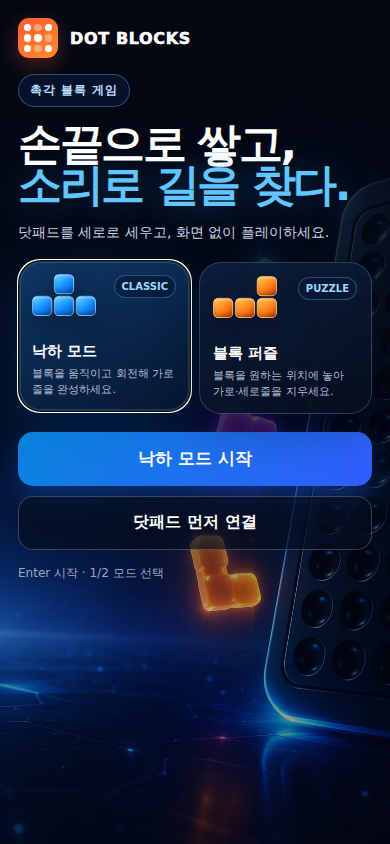
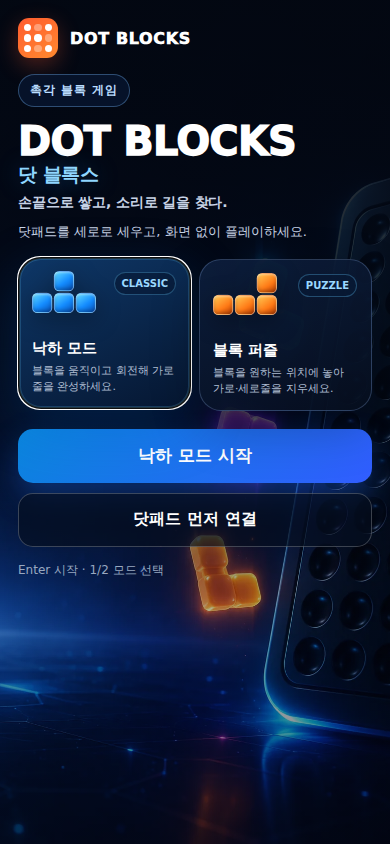
Add DotPad function-key drop, live braille line, fix English-mode crash
- F2+F3 now confirms a placement in both drop and puzzle mode (adjacent
  finger pair, no hand movement off F1-F4), calling the same
  hardDrop()/placePuzzle() as the existing panning-key gestures, which
  stay unchanged
- Hero title restyled as a title-card (DOT BLOCKS + Korean transliteration
  + tagline); the transliteration is aria-hidden so screen readers say
  the name once
- Braille line now reports live position (piece/column/rows-to-landing/
  next in drop mode, row/column/placeable in puzzle mode) instead of
  score, using standard Latin braille letters for I O T S Z J L
- Fix braille digit 0 (was wrongly encoded as dots 1-3-5-6, corrected to
  the standard dots 2-4-5) — every score display has been misreading 0
  since launch
- Split spoken status into quick (22 chars) and detailed (F3+F4/D) tiers;
  added a next/hold-only key (F2+F4/V)
- Fix English mode: applyLang() referenced a nonexistent #subtitle
  element and threw, aborting before most translations ran; also fix
  dropModeBtn/puzzleModeBtn.textContent wiping the mode cards' child
  elements needed by later lookups
- Piece colors unchanged (kept original palette, not the canonical
  Tetris scheme)

Changed region(s): [[0.0308, 0.1232, 0.9538, 0.7085]]

diff --git a/screen-flow-standalone/index.html b/screen-flow-standalone/index.html
@@ -74,7 +74,10 @@
   .intro-main{display:flex;align-items:center;padding:28px clamp(22px,5vw,76px) 64px;min-height:0}
   .intro-copy{width:min(720px,100%)}
   .eyebrow{display:inline-flex;align-items:center;gap:8px;margin:0 0 16px;padding:7px 11px;border:1px solid rgba(123,190,255,.35);border-radius:999px;background:rgba(8,25,53,.65);font-size:12px;font-weight:900;color:#baddff;letter-spacing:.08em}
-  .intro-copy h1{margin:0;font-size:clamp(42px,7vw,82px);line-height:.94;letter-spacing:-.055em;text-wrap:balance}.intro-copy h1 span{display:block;color:#61c6ff;text-shadow:0 0 35px rgba(49,160,255,.36)}
+  .intro-copy h1{margin:0;line-height:.94;letter-spacing:-.055em;text-wrap:balance}
+  .intro-copy h1 .t-en{display:block;font-size:clamp(40px,6.4vw,76px);font-weight:950;letter-spacing:-.02em}
+  .intro-copy h1 .t-ko{display:block;margin-top:8px;font-size:clamp(20px,2.6vw,32px);font-weight:800;letter-spacing:-.02em;color:#8fd6ff;text-shadow:0 0 24px rgba(49,160,255,.34)}
+  .intro-tagline{margin:16px 0 0;font-size:clamp(15px,1.8vw,20px);color:#c8d3e6;font-weight:700;letter-spacing:-.01em}
   .intro-desc{max-width:620px;margin:22px 0 26px;color:#c8d3e6;font-size:clamp(16px,2vw,20px);line-height:1.65}
   .mode-choice{display:grid;grid-template-columns:repeat(2,minmax(0,1fr));gap:12px;max-width:660px}
   .mode-card{position:relative;min-height:154px;border:1px solid rgba(159,197,255,.24);border-radius:22px;padding:18px;background:linear-gradient(155deg,rgba(13,31,62,.9),rgba(6,14,30,.92));color:#fff;text-align:left;cursor:pointer;overflow:hidden;box-shadow:0 18px 50px rgba(0,0,0,.24);transition:border-color .22s var(--ease),background .22s var(--ease),transform .22s var(--ease-out),box-shadow .22s var(--ease)}.mode-card:hover{border-color:rgba(159,197,255,.42)}.mode-card:active{transform:scale(.99)}
@@ -130,7 +133,7 @@
   @media(prefers-reduced-motion:reduce){.fx-pop.show{opacity:1}}
 
   @media(max-width:900px){.game-shell{grid-template-columns:minmax(120px,170px) minmax(220px,350px)}.side.right{display:none}.canvas-wrap{max-height:calc(100vh - 175px)}}
-  @media(max-width:640px){body{overflow:hidden}.intro-top{padding:18px 18px 8px}.intro-kicker{display:none}.intro-main{align-items:flex-start;padding:8px 18px 24px}.intro-screen{background-image:url('./assets/intro-bg-mobile.webp')}.intro-screen::before{background:linear-gradient(180deg,rgba(3,8,18,.93) 0%,rgba(3,8,18,.80) 42%,rgba(3,8,18,.30) 72%,rgba(3,8,18,.55) 100%)}.intro-copy h1{font-size:44px}.intro-desc{font-size:14px;margin:15px 0 18px}.mode-choice{gap:8px}.mode-card{min-height:135px;padding:13px}.mode-card strong{font-size:15px}.mode-card small{font-size:11px}.css-piece{transform:scale(.78);transform-origin:left top}.intro-actions{display:grid;grid-template-columns:1fr}.intro-start,.intro-secondary{width:100%}.item-assets{display:none}
+  @media(max-width:640px){body{overflow:hidden}.intro-top{padding:18px 18px 8px}.intro-kicker{display:none}.intro-main{align-items:flex-start;padding:8px 18px 24px}.intro-screen{background-image:url('./assets/intro-bg-mobile.webp')}.intro-screen::before{background:linear-gradient(180deg,rgba(3,8,18,.93) 0%,rgba(3,8,18,.80) 42%,rgba(3,8,18,.30) 72%,rgba(3,8,18,.55) 100%)}.intro-copy h1 .t-en{font-size:40px}.intro-copy h1 .t-ko{font-size:19px;margin-top:5px}.intro-tagline{font-size:14px;margin-top:11px}.intro-desc{font-size:13px;margin:9px 0 16px}.mode-choice{gap:8px}.mode-card{min-height:135px;padding:13px}.mode-card strong{font-size:15px}.mode-card small{font-size:11px}.css-piece{transform:scale(.78);transform-origin:left top}.intro-actions{display:grid;grid-template-columns:1fr}.intro-start,.intro-secondary{width:100%}.item-assets{display:none}
     .stage{position:fixed;inset:0;height:100%;min-height:0;padding:7px;grid-template-rows:auto auto minmax(0,1fr) auto;background-image:url('./assets/play-bg-mobile.webp')}.stage::before{background:linear-gradient(180deg,rgba(1,6,14,.70) 0%,rgba(1,6,14,.62) 30%,rgba(1,6,14,.74) 62%,rgba(1,6,14,.60) 100%)}.topbar{flex-direction:row;align-items:center}.topbar .brandtext span{display:none}.game-shell{display:flex;flex-direction:column;min-height:0}.side.left{width:100%;display:block;order:0}.side.left .sidecard{display:none}.side.left .sidecard:first-child{display:block;padding:6px 8px}.stats{grid-template-columns:repeat(4,1fr)}.stat{padding:5px 6px;text-align:center}.stat b{font-size:15px}.stat span{font-size:9px}.game-panel{width:100%;min-height:0;flex:1;order:1}.canvas-wrap{height:100%;max-height:none}.side.right{display:block;width:100%;order:2}.side.right #trayCard{display:block;padding:6px}.tray{grid-template-columns:repeat(3,1fr)}.tray-btn{display:block;text-align:center;min-height:56px}.tray-btn .tray-name{display:none}.tray-btn .tray-hint{display:none}.controls{position:relative;bottom:auto;z-index:8;flex-wrap:nowrap}.controls .btn{flex:1;min-width:0;padding:8px}.controls .btn .mobile-hide{display:none}.controls #dpBtn span{display:none}.status{font-size:11px}.portrait-badge{top:13px}.overlay-actions{grid-template-columns:1fr}}
 
 </style>
@@ -144,7 +147,8 @@
   <main class="intro-main">
     <div class="intro-copy">
       <p class="eyebrow" id="introEyebrow">촉각 블록 게임</p>
-      <h1 id="introTitle">손끝으로 쌓고,<span>소리로 길을 찾다.</span></h1>
+      <h1 id="introTitle"><span class="t-en">DOT BLOCKS</span><span class="t-ko" aria-hidden="true">닷 블록스</span></h1>
+      <p class="intro-tagline" id="introTagline">손끝으로 쌓고, 소리로 길을 찾다.</p>
       <p class="intro-desc" id="introDesc">닷패드를 세로로 세우고, 화면 없이 플레이하세요.</p>
       <div class="mode-choice" role="tablist" aria-label="게임 모드 선택">
         <button class="mode-card" id="dropModeBtn" role="tab" aria-selected="true" type="button">
@@ -221,6 +225,7 @@
     </div>
     <section class="sidecard"><h2 id="controlsTitle">조작법</h2><div class="helptext" id="helpText"></div></section>
     <section class="sidecard"><h2 id="padKeysTitle">닷패드 기능키</h2><div class="helptext" id="padHelp"></div></section>
+    <section class="sidecard"><h2 id="brlTitle">점자 표시줄</h2><div class="helptext" id="brlHelp"></div></section>
     <section class="sidecard"><h2 id="accessTitle">소리·접근성</h2><div class="toggle-list">
       <button class="toggle" id="speechToggle" type="button" aria-pressed="true"><span id="speechLabel">음성 안내</span><span id="speechState">켜짐</span></button>
       <button class="toggle" id="sfxToggle" type="button" aria-pressed="true"><span id="sfxLabel">방향 효과음</span><span id="sfxState">켜짐</span></button>
@@ -383,9 +388,17 @@
   function readDropStatus(detailed=false){
     if(over){speak(S('게임이 끝났어요. 점수 '+score+'점.','Game over. Score '+score+'.'));return}if(!active)return;
     const b=pieceBounds(active.cells),gy=ghostY(),distance=Math.max(0,gy-active.y),heights=stackHeights(),max=Math.max(...heights),holes=countHoles();
+    // Two tiers on purpose. The quick tier is what an experienced player hits repeatedly
+    // mid-drop, so it stays to the essentials: piece, columns, cells to landing.
+    // Everything else (score, next, hold, column heights, holes) moves to the detailed tier.
+    if(!detailed){
+      speak(S(PIECE_NAMES[active.type]+', '+pieceColumnRange(active)+', 착지 '+distance+'칸.',
+              PIECE_NAMES[active.type]+', '+pieceColumnRange(active)+', '+distance+' to landing.'));
+      return;
+    }
     let text=S('현재 '+PIECE_NAMES[active.type]+', '+orientationName(active.cells)+', '+pieceColumnRange(active)+'. '+Math.max(1,active.y+1)+'행. 착지까지 '+distance+'칸. 예상 바닥 '+Math.min(DROP_H,gy+b.h)+'행. ','Current '+PIECE_NAMES[active.type]+', '+orientationName(active.cells)+', '+pieceColumnRange(active)+'. Row '+Math.max(1,active.y+1)+'. '+distance+' cells to landing. Expected bottom row '+Math.min(DROP_H,gy+b.h)+'. ');
     text+=S('점수 '+score+', '+lines+'줄, 레벨 '+level+'. 다음 '+PIECE_NAMES[nextType]+(holdType?', 보관 '+PIECE_NAMES[holdType]:'')+'.','Score '+score+', '+lines+' lines, level '+level+'. Next '+PIECE_NAMES[nextType]+(holdType?', held '+PIECE_NAMES[holdType]:'')+'.');
-    if(detailed)text+=S(' 열 높이는 왼쪽부터 '+heights.join(', ')+'. 가장 높은 곳 '+max+'칸, 내부 빈칸 '+holes+'개.',' Column heights from left are '+heights.join(', ')+'. Maximum height '+max+', enclosed holes '+holes+'.');
+    text+=S(' 열 높이는 왼쪽부터 '+heights.join(', ')+'. 가장 높은 곳 '+max+'칸, 내부 빈칸 '+holes+'개.',' Column heights from left are '+heights.join(', ')+'. Maximum height '+max+', enclosed holes '+holes+'.');
     speak(text);
   }
   function countHoles(){let holes=0;for(let x=0;x<DROP_W;x++){let seen=false;for(let y=0;y<DROP_H;y++){if(dBoard[y]&&dBoard[y][x])seen=true;else if(seen)holes++}}return holes}
@@ -440,10 +453,14 @@
     if(next===mode&&!autoStart){stage.dataset.mode=next;syncModeTitle();return;}mode=next;stage.dataset.mode=mode;running=false;paused=false;over=true;scanMode=false;cancelAnimationFrame(dropTimer);audio.stop();if(mode==='drop'){dBoard=[];active=null;holdType=null}else{pBoard=[];pTray=[]}
     dropModeBtn.setAttribute('aria-selected',String(mode==='drop'));puzzleModeBtn.setAttribute('aria-selected',String(mode==='puzzle'));syncModeTitle();trayCard.hidden=mode!=='puzzle';nextCard.hidden=mode!=='drop';holdCard.hidden=mode!=='drop';pauseBtn.hidden=mode==='puzzle';scanBtn.setAttribute('aria-pressed','false');portraitBadge.dataset.scan='0';
     $('secondaryLabel').textContent=mode==='drop'?S('줄','Lines'):S('완성 줄','Clears');$('levelLabel').textContent=mode==='drop'?S('레벨','Level'):S('남은 블록','Pieces');
-    $('helpText').innerHTML=mode==='drop'?S('<b>낙하 모드</b><br><span class="key">←</span><span class="key">→</span> 이동 · <span class="key">↑</span> 회전<br><span class="key">↓</span> 한 칸 · <span class="key">Space</span> 바로 내리기<br><span class="key">C</span> 보관 · <span class="key">S</span> 상태 · <span class="key">Q</span> 표면 스캔','<b>Drop mode</b><br><span class="key">←</span><span class="key">→</span> move · <span class="key">↑</span> rotate<br><span class="key">↓</span> soft drop · <span class="key">Space</span> hard drop<br><span class="key">C</span> hold · <span class="key">S</span> status · <span class="key">Q</span> surface scan'):
-      S('<b>블록 퍼즐</b><br><span class="key">방향키</span> 위치 이동 · <span class="key">R</span> 회전<br><span class="key">Tab</span> 블록 선택 · <span class="key">Space</span> 놓기<br><span class="key">S</span> 상태 · <span class="key">Q</span> 보드 스캔','<b>Block puzzle</b><br><span class="key">Arrows</span> move · <span class="key">R</span> rotate<br><span class="key">Tab</span> select · <span class="key">Space</span> place<br><span class="key">S</span> status · <span class="key">Q</span> board scan');
-    $('padHelp').textContent=mode==='drop'?S('F1 왼쪽 · F2 오른쪽 · F3 회전 · F4 아래 · F1+F2 보관 · 오른쪽 패닝 즉시 낙하 · 왼쪽 패닝 상태 · 전체 패닝 표면 스캔 · RPF4 일시정지','F1 left · F2 right · F3 rotate · F4 down · F1+F2 hold · right pan hard drop · left pan status · all pan surface scan · RPF4 pause'):
-      S('F1 왼쪽 · F2 오른쪽 · F3 위 · F4 아래 · 왼쪽 패닝 회전 · 오른쪽 패닝 블록 선택 · 전체 패닝 놓기 · F1+F2 상세 상태','F1 left · F2 right · F3 up · F4 down · left pan rotate · right pan select · all pan place · F1+F2 detailed status');
+    $('helpText').innerHTML=mode==='drop'?S('<b>낙하 모드</b><br><span class="key">←</span><span class="key">→</span> 이동 · <span class="key">↑</span> 회전<br><span class="key">↓</span> 한 칸 · <span class="key">Space</span> 바로 내리기<br><span class="key">C</span> 보관 · <span class="key">S</span> 상태 · <span class="key">D</span> 상세<br><span class="key">V</span> 다음·보관 · <span class="key">Q</span> 표면 스캔','<b>Drop mode</b><br><span class="key">←</span><span class="key">→</span> move · <span class="key">↑</span> rotate<br><span class="key">↓</span> soft drop · <span class="key">Space</span> hard drop<br><span class="key">C</span> hold · <span class="key">S</span> status · <span class="key">Q</span> surface scan'):
+      S('<b>블록 퍼즐</b><br><span class="key">방향키</span> 위치 이동 · <span class="key">R</span> 회전<br><span class="key">Tab</span> 블록 선택 · <span class="key">Space</span> 놓기<br><span class="key">S</span> 상태 · <span class="key">Q</span> 보드 스캔','<b>Block puzzle</b><br><span class="key">Arrows</span> move · <span class="key">R</span> rotate<br><span class="key">Tab</span> select · <span class="key">Space</span> place<br><span class="key">S</span> status · <span class="key">D</span> detail · <span class="key">V</span> next/hold · <span class="key">Q</span> board scan');
+    $('padHelp').textContent=mode==='drop'?S('F1 왼쪽 · F2 오른쪽 · F3 회전 · F4 아래 · F2+F3 내려놓기 · F1+F2 보관 · 왼쪽 패닝 간단 상태 · F2+F4 다음·보관 · F3+F4 상세 상태 · 전체 패닝 표면 스캔 · 오른쪽 패닝 내려놓기 · RPF4 일시정지','F1 left · F2 right · F3 rotate · F4 down · F2+F3 drop & place · F1+F2 hold · left pan quick status · F2+F4 next/hold · F3+F4 full status · all pan surface scan · right pan drop & place · RPF4 pause'):
+      S('F1 왼쪽 · F2 오른쪽 · F3 위 · F4 아래 · F2+F3 놓기 · 왼쪽 패닝 회전 · 오른쪽 패닝 블록 선택 · 전체 패닝 놓기 · F1+F2 상세 상태','F1 left · F2 right · F3 up · F4 down · F2+F3 place · left pan rotate · right pan select · all pan place · F1+F2 detailed status');
+    $('brlTitle').textContent=S('점자 표시줄','Braille line');
+    $('brlHelp').textContent=mode==='drop'
+      ?S('왼쪽부터 현재 블록 · 왼쪽 끝 열 · 착지까지 남은 칸 · 다음 블록 순서로 항상 표시됩니다. 블록은 I O T S Z J L 글자, 숫자 앞에는 수표가 붙습니다. 음성을 기다리지 않고 손끝으로 바로 확인할 수 있습니다.','Left to right: current piece, leftmost column, rows to landing, next piece — shown continuously. Pieces use the letters I O T S Z J L; numbers carry the number sign. Readable by fingertip without waiting for speech.')
+      :S('왼쪽부터 행 · 열 · 놓을 수 있으면 o, 없으면 x 순서로 표시됩니다.','Left to right: row, column, then o if the piece fits or x if it does not.');
     boardCanvas.setAttribute('aria-label',mode==='drop'?S('낙하형 블록 게임. 시작 전.','Falling block game. Not started.'):S('블록 퍼즐 게임. 시작 전.','Block puzzle game. Not started.'));newBtn.querySelector('span').textContent=S('시작','Start');score=lines=pScore=pClears=0;updateHud();readBest();renderHold();
     announce(mode==='drop'?S('낙하 모드. 시작 버튼이나 엔터를 누르세요.','Drop mode. Press Start or Enter.'):S('블록 퍼즐 모드. 시작 버튼이나 엔터를 누르세요.','Block puzzle mode. Press Start or Enter.'),{phase:'ready',tts:false});if(mode==='drop')renderNext();else renderTray();renderAll();if(autoStart)newGame();
   }
@@ -456,6 +473,12 @@
     speak(text)
   }
   function readStatus(detailed=false){mode==='drop'?readDropStatus(detailed):readPuzzleStatus(detailed)}
+  // Next/hold left the quick status tier, so experienced players get it on its own key.
+  function readNextHold(){
+    if(mode!=='drop'||!running||over)return;
+    speak(S('다음 '+PIECE_NAMES[nextType]+', 보관 '+(holdType?PIECE_NAMES[holdType]:'비어 있음')+'.',
+            'Next '+PIECE_NAMES[nextType]+', hold '+(holdType?PIECE_NAMES[holdType]:'empty')+'.'));
+  }
   let fxTimer=0;
   function showFx(title,sub,variant){if(!fxPop)return;fxPop.innerHTML='<span class="fx-title">'+title+'</span>'+(sub?'<span class="fx-sub">'+sub+'</span>':'');fxPop.className='fx-pop'+(variant?' '+variant:'');clearTimeout(fxTimer);void fxPop.offsetWidth;fxPop.classList.add('show');fxTimer=setTimeout(()=>fxPop.classList.remove('show'),820)}
   function bumpBoard(cls,ms){if(!canvasWrap)return;canvasWrap.classList.remove(cls);void canvasWrap.offsetWidth;canvasWrap.classList.add(cls);setTimeout(()=>canvasWrap.classList.remove(cls),ms)}
@@ -504,8 +527,39 @@
   function portraitToHardware(p){const h=Array.from({length:HW_H},()=>new Uint8Array(HW_W));for(let y=0;y<PORTRAIT_H;y++)for(let x=0;x<PORTRAIT_W;x++)if(p[y][x]){if(rotateDir==='cw')h[PORTRAIT_W-1-x][y]=1;else h[x][PORTRAIT_H-1-y]=1}return h}
   const EA=[[0,0],[0,1],[0,2],[0,3],[1,0],[1,1],[1,2],[1,3]];
   function encodeHardware(h){let hex='';for(let s=0;s<10;s++)for(let n=0;n<30;n++){let b=0;for(let m=0;m<8;m++){const[u,p]=EA[m];if(h[s*4+p][n*2+u])b|=1<<m}hex+=(b<16?'0':'')+b.toString(16)}return hex}
-  const B_NUM=0x3C,B_SP=0x00,B_DIG={'0':0x35,'1':0x01,'2':0x03,'3':0x09,'4':0x19,'5':0x11,'6':0x0B,'7':0x1B,'8':0x13,'9':0x0A};
-  function brailleLine(){const value=String(mode==='drop'?score:pScore),secondary=String(mode==='drop'?lines:pClears),bytes=[B_NUM,...value.split('').map(d=>B_DIG[d]??B_SP),B_SP,B_NUM,...secondary.split('').map(d=>B_DIG[d]??B_SP)];while(bytes.length<20)bytes.push(B_SP);return bytes.slice(0,20).map(b=>(b<16?'0':'')+b.toString(16)).join('')}
+  const B_NUM=0x3C,B_SP=0x00,B_DIG={'0':0x1A,'1':0x01,'2':0x03,'3':0x09,'4':0x19,'5':0x11,'6':0x0B,'7':0x1B,'8':0x13,'9':0x0A},B_O=0x15,B_X=0x2D;
+  // Standard Latin braille letters for the seven pieces. Dot->bit layout matches B_DIG above
+  // (dot1=bit0 … dot6=bit5). Five of the seven already match how TTS names them
+  // (T 티, S 에스, Z 지, J 제이, L 엘); I and O are the two most distinctive shapes.
+  const B_PIECE={I:0x0A,O:0x15,T:0x1E,S:0x0E,Z:0x35,J:0x1A,L:0x07};
+  function bNum(n){return [B_NUM,...String(n).split('').map(d=>B_DIG[d]??B_SP)]}
+  // The 20-cell braille line sits under the reading finger, so it carries live position
+  // rather than score: in drop mode the piece's leftmost column and the number of cells
+  // left until it lands; in puzzle mode the cursor row/column plus o = placeable, x = blocked.
+  // Score stays available on demand through the spoken status keys.
+  // The 20-cell braille line is the only channel that reports continuously without
+  // interrupting play. Tetris is real-time, so unlike a turn-based game we cannot spare
+  // function keys for "read state" — the line has to carry the whole decision set:
+  //   drop mode : [piece] [column] [rows to landing] [next piece]
+  //   puzzle    : [row] [column] [placeable? o/x]
+  function brailleLine(){
+    let bytes;
+    if(mode==='drop'&&active&&running&&!over){
+      const left=Math.min(...active.cells.map(c=>active.x+c[0]))+1;
+      bytes=[B_PIECE[active.type]||B_SP,B_SP,
+             ...bNum(left),B_SP,
+             ...bNum(Math.max(0,ghostY()-active.y)),B_SP,
+             B_PIECE[nextType]||B_SP];
+    }else if(mode==='puzzle'&&running&&!over){
+      const p=currentPuzzlePiece();
+      bytes=[...bNum(cursorY+1),B_SP,...bNum(cursorX+1),B_SP,
+             p&&!p.used?(canPlacePuzzle(p,cursorX,cursorY)?B_O:B_X):B_SP];
+    }else{
+      bytes=[...bNum(mode==='drop'?score:pScore),B_SP,...bNum(mode==='drop'?lines:pClears)];
+    }
+    while(bytes.length<20)bytes.push(B_SP);
+    return bytes.slice(0,20).map(b=>(b<16?'0':'')+b.toString(16)).join('')
+  }
   function drawPin(){if(!pinwrap.classList.contains('show'))return;const g=buildPortraitFrame(),W=pin.clientWidth||136,H=W*1.5,dpr=window.devicePixelRatio||1;pin.style.height=H+'px';pin.width=Math.round(W*dpr);pin.height=Math.round(H*dpr);pctx.setTransform(dpr,0,0,dpr,0,0);pctx.clearRect(0,0,W,H);pctx.fillStyle='#e8e2d8';pctx.fillRect(0,0,W,H);const gapX=W/PORTRAIT_W,gapY=H/PORTRAIT_H;for(let y=0;y<PORTRAIT_H;y++)for(let x=0;x<PORTRAIT_W;x++){const on=g[y][x],r=(on?.34:.13)*Math.min(gapX,gapY);pctx.fillStyle=on?'#191714':'#cfc8bc';pctx.beginPath();pctx.arc((x+.5)*gapX,(y+.5)*gapY,r,0,Math.PI*2);pctx.fill()}}
   function renderPad(){if(!dpConnected||!sdk)return;try{const h=portraitToHardware(buildPortraitFrame());sdk.displayGraphicData(encodeHardware(h));sdk.displayTextData(brailleLine())}catch(e){}}
   function wait(ms){return new Promise(r=>setTimeout(r,ms))}
@@ -517,9 +571,9 @@
   function handleDotPadKey(keyCode){
     if(!KeyCodes)return;document.body.classList.add('kbd');ensureAudio();if(over){if(keyCode===KeyCodes.KeyFunction1||keyCode===KeyCodes.LPF1)newGame();return}
     if(mode==='drop'){
-      if(keyCode===KeyCodes.KeyFunction1)moveDrop(-1,0);else if(keyCode===KeyCodes.KeyFunction2)moveDrop(1,0);else if(keyCode===KeyCodes.KeyFunction3)rotateDrop();else if(keyCode===KeyCodes.KeyFunction4)moveDrop(0,1);else if(keyCode===KeyCodes.KeyFunction12)holdDrop();else if(keyCode===KeyCodes.PanningRight)hardDrop();else if(keyCode===KeyCodes.PanningLeft)readDropStatus(false);else if(keyCode===KeyCodes.PanningAll)toggleScan();else if(keyCode===KeyCodes.RPF4)togglePause();else if(keyCode===KeyCodes.LPF1)newGame();else if(keyCode===KeyCodes.KeyFunction34)readDropStatus(true)
+      if(keyCode===KeyCodes.KeyFunction1)moveDrop(-1,0);else if(keyCode===KeyCodes.KeyFunction2)moveDrop(1,0);else if(keyCode===KeyCodes.KeyFunction3)rotateDrop();else if(keyCode===KeyCodes.KeyFunction4)moveDrop(0,1);else if(keyCode===KeyCodes.KeyFunction12)holdDrop();else if(keyCode===KeyCodes.PanningRight)hardDrop();else if(keyCode===KeyCodes.PanningLeft)readDropStatus(false);else if(keyCode===KeyCodes.PanningAll)toggleScan();else if(keyCode===KeyCodes.RPF4)togglePause();else if(keyCode===KeyCodes.LPF1)newGame();else if(keyCode===KeyCodes.KeyFunction34)readDropStatus(true);else if(keyCode===KeyCodes.KeyFunction24)readNextHold();else if(keyCode===KeyCodes.KeyFunction23)hardDrop()
     }else{
-      if(keyCode===KeyCodes.KeyFunction1)movePuzzle(-1,0);else if(keyCode===KeyCodes.KeyFunction2)movePuzzle(1,0);else if(keyCode===KeyCodes.KeyFunction3)movePuzzle(0,-1);else if(keyCode===KeyCodes.KeyFunction4)movePuzzle(0,1);else if(keyCode===KeyCodes.PanningLeft)rotatePuzzle();else if(keyCode===KeyCodes.PanningRight)cyclePuzzle();else if(keyCode===KeyCodes.PanningAll)placePuzzle();else if(keyCode===KeyCodes.KeyFunction12)readPuzzleStatus(true);else if(keyCode===KeyCodes.RPF4)readPuzzleStatus(false);else if(keyCode===KeyCodes.LPF1)newGame()
+      if(keyCode===KeyCodes.KeyFunction1)movePuzzle(-1,0);else if(keyCode===KeyCodes.KeyFunction2)movePuzzle(1,0);else if(keyCode===KeyCodes.KeyFunction3)movePuzzle(0,-1);else if(keyCode===KeyCodes.KeyFunction4)movePuzzle(0,1);else if(keyCode===KeyCodes.PanningLeft)rotatePuzzle();else if(keyCode===KeyCodes.PanningRight)cyclePuzzle();else if(keyCode===KeyCodes.PanningAll)placePuzzle();else if(keyCode===KeyCodes.KeyFunction12)readPuzzleStatus(true);else if(keyCode===KeyCodes.RPF4)readPuzzleStatus(false);else if(keyCode===KeyCodes.KeyFunction23)placePuzzle();else if(keyCode===KeyCodes.LPF1)newGame()
     }
   }
   async function loadSDK(){try{const m=await import('./dotpad-sdk/DotPadSDK-3.0.0.js');KeyCodes=m.KeyCodes;DataCodes=m.DataCodes;sdk=new m.DotPadSDK();scanner=new m.DotPadScanner();sdk.setCallBack((device,code)=>{if(code===DataCodes.Connected){dpConnected=true;setDpUI(true);setTimeout(()=>{try{sdk.displayAllDown();setTimeout(renderPad,250)}catch(e){}},180)}else if(code===DataCodes.Disconnected){dpConnected=false;setDpUI(false)}},(device,keyCode)=>handleDotPadKey(keyCode));return true}catch(e){console.error(e);return false}}
@@ -527,7 +581,7 @@
   async function connectDotPad(){if(!navigator.bluetooth){announce(S('이 브라우저는 블루투스를 지원하지 않아요. 크롬이나 엣지에서 열어 주세요.','Bluetooth is not supported. Open in Chrome or Edge.'),{phase:'ready',tts:true});return}if(!sdk){await loadSDK();if(!sdk){announce(S('닷패드 SDK를 불러오지 못했어요.','Could not load the DotPad SDK.'),{phase:'ready',tts:true});return}}try{let dev=null;try{dev=await navigator.bluetooth.requestDevice({filters:[{namePrefix:'DotPad'},{namePrefix:'KM2-'},{namePrefix:'KM3-'},{namePrefix:'DPK'},{namePrefix:'DMI'}],optionalServices:[scanner.DOTPAD_SERVICE]})}catch(e){if(e.name==='NotFoundError')dev=await navigator.bluetooth.requestDevice({acceptAllDevices:true,optionalServices:[scanner.DOTPAD_SERVICE]});else throw e}if(dev){announce(S('닷패드에 연결 중…','Connecting to DotPad…'),{phase:'ready',tts:false});await sdk.connectBleDevice(dev)}}catch(e){if(e.name!=='NotFoundError')announce(S('닷패드 연결 실패: ','DotPad connection failed: ')+(e.message||e.name),{phase:'ready',tts:true})}}
 
   // ---------- INPUT / UI ----------
-  document.addEventListener('keydown',ev=>{const k=ev.key;document.body.classList.add('kbd');ensureAudio();if(!introScreen.hidden){if(k==='1'){setMode('drop',false);ev.preventDefault();return}if(k==='2'){setMode('puzzle',false);ev.preventDefault();return}if(k==='Enter'){showPlay();newGame();ev.preventDefault();return}}if(k==='Escape'&&!settingsDrawer.hidden){closeDrawer();ev.preventDefault();return}if(k==='1'){setMode('drop',true);ev.preventDefault();return}if(k==='2'){setMode('puzzle',true);ev.preventDefault();return}if(k==='h'||k==='H'||k==='?'){tutorial();ev.preventDefault();return}if(k==='n'||k==='N'){newGame();ev.preventDefault();return}if(k==='o'||k==='O'){toggleOrientation();ev.preventDefault();return}if(k==='s'||k==='S'){readStatus(false);ev.preventDefault();return}if(k==='q'||k==='Q'){toggleScan();ev.preventDefault();return}if(k==='Enter'&&over){newGame();ev.preventDefault();return}
+  document.addEventListener('keydown',ev=>{const k=ev.key;document.body.classList.add('kbd');ensureAudio();if(!introScreen.hidden){if(k==='1'){setMode('drop',false);ev.preventDefault();return}if(k==='2'){setMode('puzzle',false);ev.preventDefault();return}if(k==='Enter'){showPlay();newGame();ev.preventDefault();return}}if(k==='Escape'&&!settingsDrawer.hidden){closeDrawer();ev.preventDefault();return}if(k==='1'){setMode('drop',true);ev.preventDefault();return}if(k==='2'){setMode('puzzle',true);ev.preventDefault();return}if(k==='h'||k==='H'||k==='?'){tutorial();ev.preventDefault();return}if(k==='n'||k==='N'){newGame();ev.preventDefault();return}if(k==='o'||k==='O'){toggleOrientation();ev.preventDefault();return}if(k==='s'||k==='S'){readStatus(false);ev.preventDefault();return}if(k==='d'||k==='D'){readStatus(true);ev.preventDefault();return}if(k==='v'||k==='V'){readNextHold();ev.preventDefault();return}if(k==='q'||k==='Q'){toggleScan();ev.preventDefault();return}if(k==='Enter'&&over){newGame();ev.preventDefault();return}
     if(mode==='drop'){if(k==='ArrowLeft')moveDrop(-1,0);else if(k==='ArrowRight')moveDrop(1,0);else if(k==='ArrowDown')moveDrop(0,1);else if(k==='ArrowUp'||k==='x'||k==='X')rotateDrop();else if(k===' ')hardDrop();else if(k==='c'||k==='C')holdDrop();else if(k==='p'||k==='P')togglePause();else return;ev.preventDefault()}
     else{if(k==='ArrowLeft')movePuzzle(-1,0);else if(k==='ArrowRight')movePuzzle(1,0);else if(k==='ArrowUp')movePuzzle(0,-1);else if(k==='ArrowDown')movePuzzle(0,1);else if(k==='r'||k==='R')rotatePuzzle();else if(k==='Tab')cyclePuzzle();else if(k===' '||k==='Enter')placePuzzle();else return;ev.preventDefault()}});
   dropModeBtn.addEventListener('click',()=>setMode('drop',false));puzzleModeBtn.addEventListener('click',()=>setMode('puzzle',false));startSelectedBtn.addEventListener('click',()=>{showPlay();newGame()});introConnectBtn.addEventListener('click',connectDotPad);homeBtn.addEventListener('click',showIntro);menuBtn.addEventListener('click',openDrawer);drawerClose.addEventListener('click',closeDrawer);drawerBackdrop.addEventListener('click',closeDrawer);resumeBtn.addEventListener('click',togglePause);pauseHomeBtn.addEventListener('click',showIntro);restartBtn.addEventListener('click',()=>{resultOverlay.hidden=true;newGame()});resultHomeBtn.addEventListener('click',showIntro);newBtn.addEventListener('click',()=>{closeDrawer();newGame()});pauseBtn.addEventListener('click',togglePause);helpBtn.addEventListener('click',tutorial);statusBtn.addEventListener('click',()=>readStatus(false));scanBtn.addEventListener('click',toggleScan);dpBtn.addEventListener('click',connectDotPad);
@@ -547,9 +601,9 @@
   boardCanvas.addEventListener('pointerdown',e=>{ensureAudio();boardCanvas.focus();pointerStart={x:e.clientX,y:e.clientY,t:performance.now()};try{boardCanvas.setPointerCapture(e.pointerId)}catch(err){}});
   boardCanvas.addEventListener('pointerup',e=>{if(!pointerStart)return;const dx=e.clientX-pointerStart.x,dy=e.clientY-pointerStart.y,dist=Math.hypot(dx,dy);pointerStart=null;if(over){newGame();return}if(mode==='drop'){if(dist<24)rotateDrop();else if(Math.abs(dx)>Math.abs(dy)){moveDrop(dx<0?-1:1,0)}else if(dy>55)hardDrop();else if(dy<-45)holdDrop();else moveDrop(0,1)}else{if(dist<24)placePuzzle();else if(Math.abs(dx)>Math.abs(dy))movePuzzle(dx<0?-1:1,0);else movePuzzle(0,dy<0?-1:1)}});
   window.addEventListener('resize',()=>{clearTimeout(window.__dbRz);window.__dbRz=setTimeout(renderAll,100)});document.addEventListener('visibilitychange',()=>{if(!stage.hidden&&document.hidden&&mode==='drop'&&running&&!over&&!paused){paused=true;audio.pause();$('pauseLabel').textContent=S('계속','Resume');showPauseState();announce(S('앱이 백그라운드로 이동해 자동 일시정지했습니다.','Automatically paused while the app is in the background.'),{phase:'ready',tts:false})}});document.addEventListener('pointerdown',()=>document.body.classList.remove('kbd'));document.body.addEventListener('pointerdown',function once(){ensureAudio();try{speechSynthesis.resume()}catch(e){}document.body.removeEventListener('pointerdown',once)},{once:true});
-  window.getDotpadFrame=()=>encodeHardware(portraitToHardware(buildPortraitFrame()));window.getPortraitFrame=()=>buildPortraitFrame();window.getAccessibilityState=()=>({mode,scanMode,settings:{...settings},danger:mode==='drop'?dangerLevel():0,frameLength:window.getDotpadFrame().length});
+  window.getDotpadFrame=()=>encodeHardware(portraitToHardware(buildPortraitFrame()));window.getPortraitFrame=()=>buildPortraitFrame();window.getAccessibilityState=()=>({mode,scanMode,settings:{...settings},danger:mode==='drop'?dangerLevel():0,frameLength:window.getDotpadFrame().length,brailleLine:brailleLine()});
 
-  function applyLang(){if(LANG!=='en')return;document.documentElement.lang='en';document.title='DOT BLOCKS';$('blindBadge').textContent='BLIND-FIRST';$('subtitle').textContent='A portrait block game playable through DotPad touch and audio alone';dropModeBtn.textContent='Drop Mode';puzzleModeBtn.textContent='Block Puzzle';$('scoreTitle').textContent='Game Stats';$('scoreLabel').textContent='Score';$('secondaryLabel').textContent='Lines';$('levelLabel').textContent='Level';$('bestLabel').textContent='Best';$('nextTitle').textContent='Next Piece';$('holdTitle').textContent='Held Piece';$('holdHint').textContent='C / F1+F2';$('verticalTitle').textContent='Portrait DotPad';$('orientationText').innerHTML='<strong>40×60 logical pins</strong> rotate automatically into the physical 60×40 output. Stand the DotPad with controls at the bottom.';$('legend').innerHTML='<span class="legend-sample solid" aria-hidden="true"></span><span>Dense: settled block</span><span class="legend-sample outline" aria-hidden="true"></span><span>Outline: moving piece</span><span class="legend-sample ghost" aria-hidden="true"></span><span>Two dots: landing preview</span>';$('trayTitle').textContent='Pieces';$('controlsTitle').textContent='Controls';$('padKeysTitle').textContent='DotPad Keys';$('accessTitle').textContent='Audio & Accessibility';$('speechLabel').textContent='Speech guidance';$('sfxLabel').textContent='Directional earcons';$('musicLabel').textContent='Procedural music';$('assistLabel').textContent='Tactile-friendly lock delay';$('speedLabel').textContent='Drop speed';speedSelect.options[0].text='Relaxed';speedSelect.options[1].text='Standard';speedSelect.options[2].text='Challenge';$('musicStyleLabel').textContent='Music style';musicStyleSelect.options[0].text='Default (ambient)';musicStyleSelect.options[1].text='Retro (chiptune)';$('newLabel').textContent='Start';$('pauseLabel').textContent='Pause';$('statusLabel').textContent='Status';$('scanLabel').textContent='Surface scan';$('helpLabel').textContent='How to play';$('orientationLabel').textContent=rotateDir==='cw'?'Rotate: right':'Rotate: left';$('dpLabel').textContent='Connect DotPad';$('pinCap').innerHTML='Portrait 40×60<br>Dense=settled · outline=current · two dots=landing';$('introEyebrow').textContent='Tactile block game';$('introTitle').innerHTML='Build by touch,<span>navigate by sound.</span>';$('introDesc').textContent='Stand the DotPad upright and play without the screen.';$('dropModeName').textContent='Drop Mode';$('dropModeDesc').textContent='Move and rotate pieces to complete horizontal lines.';$('puzzleModeName').textContent='Block Puzzle';$('puzzleModeDesc').textContent='Place pieces to clear horizontal and vertical lines.';$('introAccess').textContent='Enter to start · 1/2 to pick a mode';$('settingsTitle').textContent='Game Settings';$('pauseTitle').textContent='Paused';$('pauseDesc').textContent='The game and falling piece are paused. The current DotPad pin state is preserved.';$('resumeBtn').textContent='Resume';$('pauseHomeBtn').textContent='Back to Intro';$('resultTitle').textContent='Game Over';$('restartBtn').textContent='Play Again';$('resultHomeBtn').textContent='Choose Another Mode';setToggle(speechToggle,'speechState',settings.speech);setToggle(sfxToggle,'sfxState',settings.sfx);setToggle(musicToggle,'musicState',settings.music);setToggle(assistToggle,'assistState',settings.assist)}
+  function applyLang(){if(LANG!=='en')return;document.documentElement.lang='en';document.title='DOT BLOCKS';$('blindBadge').textContent='BLIND-FIRST';$('scoreTitle').textContent='Game Stats';$('scoreLabel').textContent='Score';$('secondaryLabel').textContent='Lines';$('levelLabel').textContent='Level';$('bestLabel').textContent='Best';$('nextTitle').textContent='Next Piece';$('holdTitle').textContent='Held Piece';$('holdHint').textContent='C / F1+F2';$('verticalTitle').textContent='Portrait DotPad';$('orientationText').innerHTML='<strong>40×60 logical pins</strong> rotate automatically into the physical 60×40 output. Stand the DotPad with controls at the bottom.';$('legend').innerHTML='<span class="legend-sample solid" aria-hidden="true"></span><span>Dense: settled block</span><span class="legend-sample outline" aria-hidden="true"></span><span>Outline: moving piece</span><span class="legend-sample ghost" aria-hidden="true"></span><span>Two dots: landing preview</span>';$('trayTitle').textContent='Pieces';$('controlsTitle').textContent='Controls';$('padKeysTitle').textContent='DotPad Keys';$('accessTitle').textContent='Audio & Accessibility';$('speechLabel').textContent='Speech guidance';$('sfxLabel').textContent='Directional earcons';$('musicLabel').textContent='Procedural music';$('assistLabel').textContent='Tactile-friendly lock delay';$('speedLabel').textContent='Drop speed';speedSelect.options[0].text='Relaxed';speedSelect.options[1].text='Standard';speedSelect.options[2].text='Challenge';$('musicStyleLabel').textContent='Music style';musicStyleSelect.options[0].text='Default (ambient)';musicStyleSelect.options[1].text='Retro (chiptune)';$('newLabel').textContent='Start';$('pauseLabel').textContent='Pause';$('statusLabel').textContent='Status';$('scanLabel').textContent='Surface scan';$('helpLabel').textContent='How to play';$('orientationLabel').textContent=rotateDir==='cw'?'Rotate: right':'Rotate: left';$('dpLabel').textContent='Connect DotPad';$('introDpLabel').textContent='Connect DotPad first';$('pinLabel').textContent='Pin preview';$('pinCap').innerHTML='Portrait 40×60<br>Dense=settled · outline=current · two dots=landing';$('introEyebrow').textContent='Tactile block game';$('introTagline').textContent='Build by touch, navigate by sound.';$('introDesc').textContent='Stand the DotPad upright and play without the screen.';$('dropModeName').textContent='Drop Mode';$('dropModeDesc').textContent='Move and rotate pieces to complete horizontal lines.';$('puzzleModeName').textContent='Block Puzzle';$('puzzleModeDesc').textContent='Place pieces to clear horizontal and vertical lines.';$('introAccess').textContent='Enter to start · 1/2 to pick a mode';$('settingsTitle').textContent='Game Settings';$('pauseTitle').textContent='Paused';$('pauseDesc').textContent='The game and falling piece are paused. The current DotPad pin state is preserved.';$('resumeBtn').textContent='Resume';$('pauseHomeBtn').textContent='Back to Intro';$('resultTitle').textContent='Game Over';$('restartBtn').textContent='Play Again';$('resultHomeBtn').textContent='Choose Another Mode';setToggle(speechToggle,'speechState',settings.speech);setToggle(sfxToggle,'sfxState',settings.sfx);setToggle(musicToggle,'musicState',settings.music);setToggle(assistToggle,'assistState',settings.assist)}
 
   applyLang();setMode(params.get('mode')==='puzzle'?'puzzle':'drop',false);showIntro();loadSDK();if(params.get('preview')==='1'){pinwrap.classList.add('show');pinToggle.setAttribute('aria-pressed','true');drawPin()}
 })();

diff --git a/screen-flow-standalone/CHANGELOG.md b/screen-flow-standalone/CHANGELOG.md
@@ -1,5 +1,42 @@
 # Changelog
 
+## 기능키만으로 블록 확정 · 타이틀 정비 · 점자 표시줄 확장
+
+- **F2+F3에 「내려놓기」 배치** — 블록을 확정하는 동작이 낙하 모드는 오른쪽 패닝, 퍼즐 모드는
+  전체 패닝에만 있어서, 손이 F1~F4에 올라가 있는데 확정할 때마다 패닝키로 옮겨야 했음.
+  가운데 인접 쌍(검지+중지)이라 손 위치를 바꾸지 않고 누를 수 있고, 두 모드에서 같은 제스처가
+  같은 의미를 갖도록 통일. **기존 패닝키 매핑은 그대로 유지**해 기존 사용자 조작이 깨지지 않음
+- 히어로 타이틀을 게임 타이틀 화면 형태로 변경: **DOT BLOCKS** + 닷 블록스(보조) + 태그라인
+  - 한글 음차는 `aria-hidden` 처리해 스크린리더가 제목을 두 번 읽지 않음 (h1 낭독 = "DOT BLOCKS")
+- **낙하 모드 점자 라인 확장** `[열] [착지까지 칸]` → `[현재 블록] [열] [착지까지 칸] [다음 블록]`
+  - 표준 라틴 점자 I O T S Z J L 사용. T·S·Z·J·L은 기존 음성 안내(티/에스/지/제이/엘)와 일치
+  - 점 배치는 파일의 기존 상수 6개(수표·o·x·숫자)와 비트 레이아웃 대조로 검증. 20칸 중 11칸 사용
+- 설정에 「점자 표시줄」 안내 카드 추가 (모드별 표기 순서, 한/영)
+- 블록 색상은 기존 배색을 유지 (표준 테트리스 배색 적용안은 반영하지 않음)
+
+## 닷패드 숙련자 대응 강화 (Dot 틱택토 정보설계 참고)
+
+- **점자 라인을 실시간 위치 표시로 전환** — 20셀 점자 라인은 읽는 손가락 바로 아래에 있는데
+  기존에는 점수·줄수만 띄우고 있었음. Dot 틱택토가 커서 위치와 칸 내용을 실시간으로 보여주는
+  방식을 참고해, 낙하 모드는 `#열 #착지까지칸수`, 블록 퍼즐은 `#행 #열 o|x`(o=놓을 수 있음)로 변경.
+  이동할 때마다 갱신되므로 음성 없이도 지연 0으로 위치 파악 가능
+- **점자 숫자 0 인코딩 버그 수정** — `0x35`(1·3·5·6점)로 잘못 매핑되어 있던 것을 표준 `0x1A`(2·4·5점)로
+  교정. 점수가 0에서 시작하므로 사용자는 항상 틀린 글자를 읽고 있었음
+- **상태 음성을 2단계로 분리** — 기존 왼쪽 패닝 상태 안내가 약 110자로 길어 반복 청취에 부담.
+  간단(왼쪽 패닝/S) 22자로 축약, 상세(F3+F4/D)에 점수·다음·열 높이·빈칸 전부 유지
+- **다음·보관 전용 키 추가** — 간단 티어에서 빠진 정보를 미사용 `F2+F4`(키보드 V)에 배치, 19자
+- 조작법 안내(닷패드 기능키·키보드)와 진단 API `getAccessibilityState().brailleLine` 갱신
+
+## 영문 모드 크래시 수정
+
+- **`#subtitle` TypeError 수정**: `applyLang()`이 존재하지 않는 `#subtitle` 엘리먼트에 접근해
+  중단되던 문제. 이 때문에 이후에 나열된 영문 번역 대부분이 적용되지 않고 있었음
+- **모드 카드 파괴 버그 수정**: `dropModeBtn.textContent`/`puzzleModeBtn.textContent` 할당이
+  버튼 내부의 아이콘·제목·설명 자식 엘리먼트를 전부 지워버려, 이후 `#dropModeName` 등 접근에서
+  다시 중단되던 문제
+- 누락돼 있던 `introDpLabel`, `pinLabel` 영문 문구 추가
+- 결과: 인트로·플레이·설정·일시정지 전 화면 영문 모드 한글 잔존 0건, 페이지 에러 0건
+
 ## GitHub Pages 음성 안내 지연 제거
 
 - `TW_TTS`는 `/api/tts` 서버 엔드포인트를 우선 시도하는데, 이 엔드포인트는 Dot Games 호스트

diff --git a/screen-flow-standalone/QA.md b/screen-flow-standalone/QA.md
@@ -1,5 +1,43 @@
 # DOT BLOCKS Blind-first QA
 
+## 기능키 확정 동작 · 타이틀 · 점자 라인 — 검증 결과
+
+- 낙하/퍼즐 두 모드의 키 분기 순서를 정적 분석해 `KeyFunction23`이 도달 가능함을 확인
+  (앞선 분기에 catch-all 없음). 모드별 중복 매핑 없음
+- `F2+F3`과 기존 패닝키가 **동일 함수**(`hardDrop()` / `placePuzzle()`)를 호출함을 코드로 확인
+- 확정 동작 후 점자 라인이 `L #4 #19 (다음 I)` → `I #4 #15 (다음 S)`로 갱신되어
+  블록이 실제로 고정되고 다음 블록이 올라오는 것을 확인
+- h1 접근성 이름이 "DOT BLOCKS" 한 번만 낭독됨 (데스크톱·모바일 동일)
+- 점자 비트 레이아웃을 기존 상수 6개와 대조 검증 후 블록 글자 7종 산출
+- 닷패드 프레임 600 hex / 60×40 유지, 페이지 에러 없음
+
+### 실제 닷패드에서 확인이 필요한 항목
+
+1. **F2+F3 동시 입력이 실기 펌웨어에서 안정적으로 인식되는지** — 특히 빠른 연타 시
+   F2 또는 F3 단독 입력으로 오인되어 의도치 않은 이동/회전이 일어나지 않는지
+2. 20칸 점자 라인에 토큰 4개가 손끝 한 번에 스캔되는 분량인지
+   (부담되면 다음 블록을 빼고 `F2+F4`에만 남기는 안으로 되돌릴 수 있음)
+3. 수표 뒤 숫자와 블록 글자가 인접했을 때 혼동 여부 — `j`(2·4·5점)와 숫자 `0`은 같은 점형
+4. 확정 키가 두 개(F2+F3, 패닝)인 것이 혼란스럽지 않은지
+
+## 닷패드 숙련자 대응 — 검증 결과
+
+- **점자 라인 실시간 갱신 확인** (진단 API `getAccessibilityState().brailleLine` 디코딩)
+  - 낙하: `#4 #19` → 우로 이동 시 `#5 #19` `#6 #19` `#7 #18` `#8 #18`, 소프트드롭 후 `#8 #12`
+  - 퍼즐: `#1 #1 o` → 커서 이동 시 `#1 #2 o` `#1 #3 o` `#1 #4 o` (o=놓을 수 있음, x=겹침)
+  - 20셀(40 hex) 유지
+- **점자 숫자 0 표준 대조**: 1~9는 기존에도 표준과 일치, 0만 `1·3·5·6점`으로 오류 → `2·4·5점`으로 교정
+- **음성 길이 실측**: 간단 22자 / 다음·보관 19자 / 상세 135자 (기존 단일 안내 약 110자)
+- 전체 키 스윕(←→↑↓ C S D V Q P Space) 후에도 `getDotpadFrame()` 600 hex, 60×40 유지, 페이지 에러 0건
+
+### 실제 닷패드에서 확인 필요
+
+1. 점자 라인의 `#열 #착지칸수`를 손가락으로 읽으며 동시에 촉각 보드를 탐색하는 것이 실제로 편한지
+   (두 손 사용 가정 — 한 손은 점자 라인, 한 손은 핀 면)
+2. 퍼즐 모드 `o`/`x` 표시가 촉각으로 즉시 구분되는지
+3. 간단 상태(22자)만으로 충분한지, 아니면 착지 행 번호도 필요한지
+4. `F2+F4`(다음·보관) 동시 입력이 기기 펌웨어에서 안정적으로 인식되는지
+
 ## 순수 배경 · 문구 축약 — 검증 결과
 
 - 배경 5종 모두 WebP 변환 후 적용, 실패한 리소스 요청 없음 (파일 크기 29~78KB)
@@ -73,7 +111,6 @@
 - `window.getAccessibilityState()` 진단 API 제공
 - HTML ID 100개 중복 없음, 핵심 스크립트 참조 ID 누락 없음
 - 절차형 오디오 엔진을 모의 AudioContext에서 전체 이어콘 호출 검증
-
 
 ## 화면 분리 및 반응형 검증
 

diff --git a/screen-flow-standalone/assets/ASSETS.md b/screen-flow-standalone/assets/ASSETS.md
@@ -17,7 +17,8 @@ The default tetrominoes are **not** bitmap assets — they are drawn by Canvas s
 rotation, contrast and responsive sizing stay reliable, and so the tactile DotPad frame is
 generated from the same source of truth as the screen.
 
-Piece colours use an original palette deliberately distinct from the canonical Tetris
-scheme (no piece maps to the familiar cyan/yellow/purple/green/red/blue/orange set).
+Piece colours use the project's own palette rather than the canonical Tetris scheme.
+The tactile DotPad output does not depend on colour at all — pin state is what conveys
+the board — so the palette is a purely visual choice.
 
 Background images were generated for this project. The item SVG files are original project assets.
